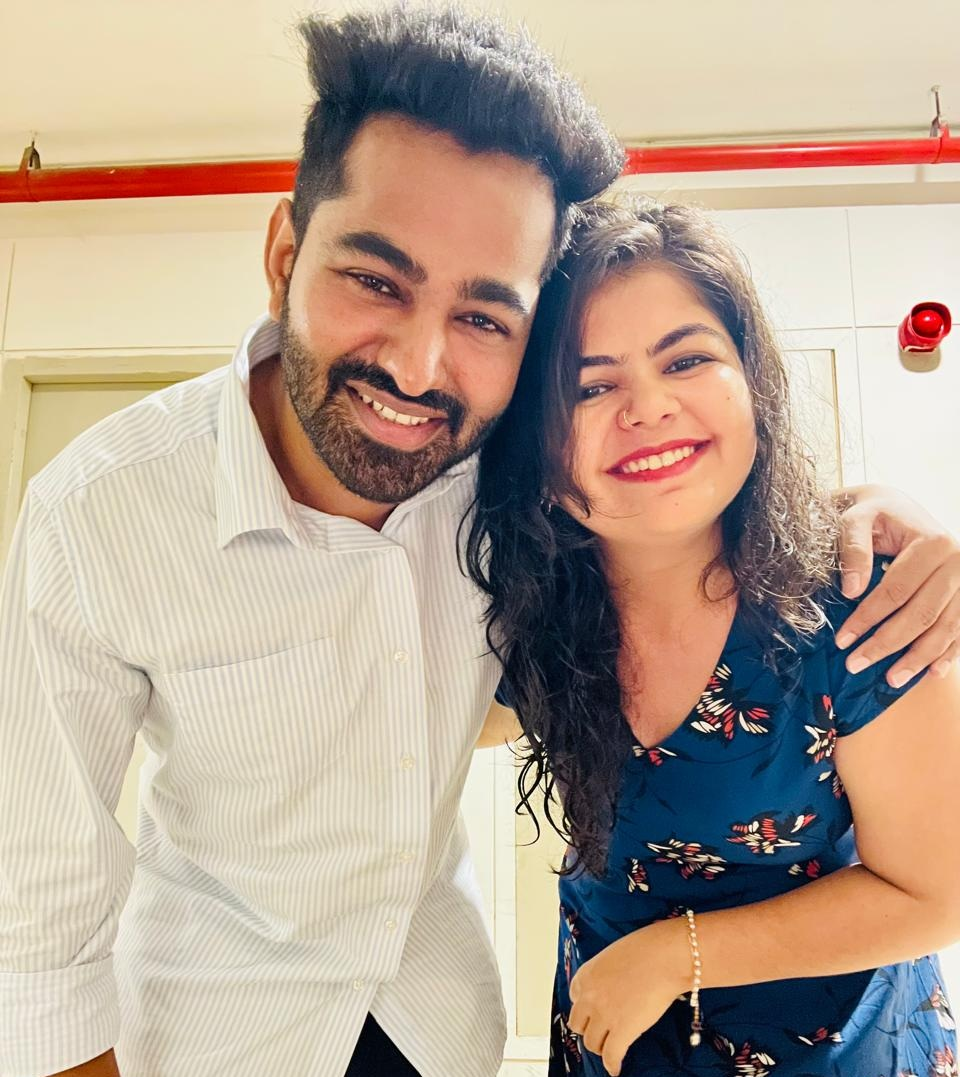
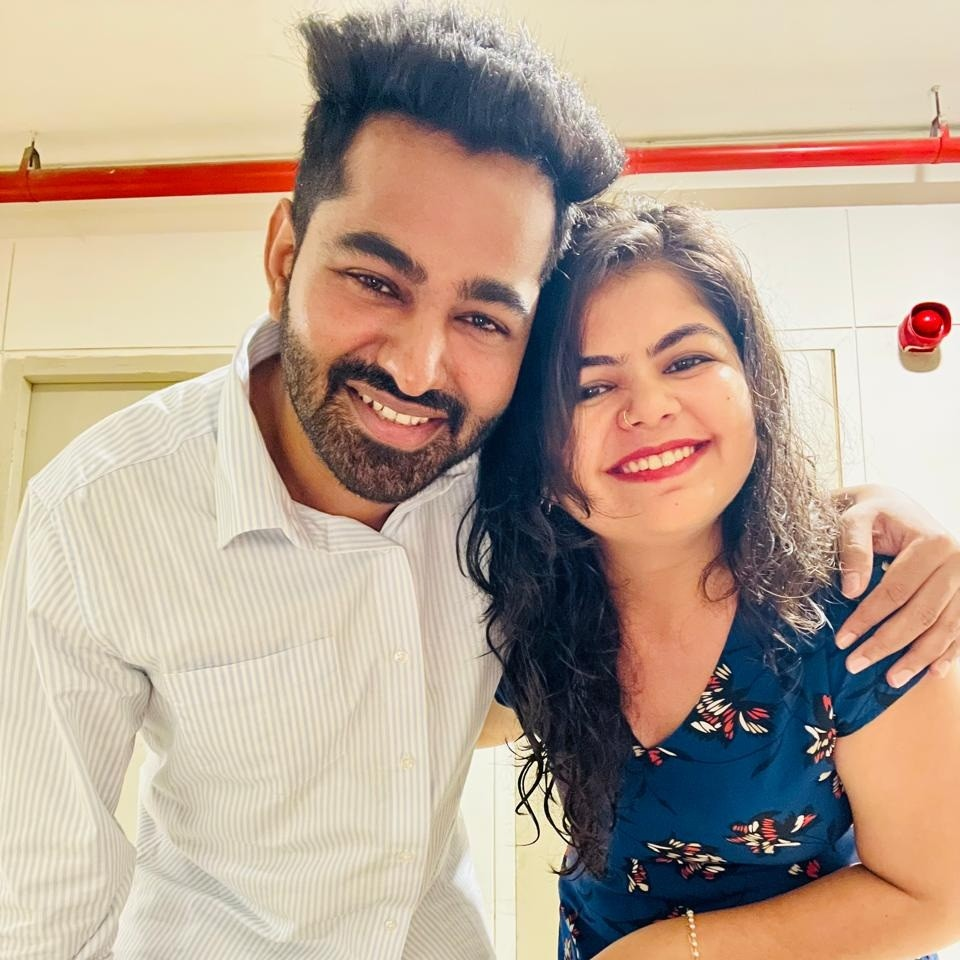
Additional fix

diff --git a/src/components/MusicPlayer.jsx b/src/components/MusicPlayer.jsx
@@ -8,45 +8,75 @@ export default function MusicPlayer() {
   const [hasError, setHasError] = useState(false);
   const audioRef = useRef(null);
 
-  //Music is disabled by default (per requirement)
-  // useEffect(() => {
-  //   const audio = audioRef.current;
-  //   if (!audio) return;
-  //   audio.volume = 0.6;
-  //   audio.loop = true;
-  // }, []);
   useEffect(() => {
-  const a = audioRef.current;
-  if (!a || !music.enabled) return;
-  a.volume = 0.6;
-  a.loop = true;
+    const audio = audioRef.current;
 
-  const tryPlay = async () => {
-    try {
-      await a.play();
-      setPlaying(true);
-      // Once played, remove the listener — job done
+    if (!audio || !music.enabled) return;
+
+    audio.volume = 0.6;
+    audio.loop = true;
+
+    const tryPlay = async () => {
+      // Don't try to play if user has already left/hidden the page
+      if (document.hidden) return;
+
+      try {
+        await audio.play();
+        setPlaying(true);
+
+        document.removeEventListener("touchstart", tryPlay);
+        document.removeEventListener("click", tryPlay);
+      } catch {
+        setPlaying(false);
+      }
+    };
+
+    // Try automatically after 3.5 seconds
+    const playTimer = setTimeout(tryPlay, 3500);
+
+    // Mobile fallback
+    document.addEventListener("touchstart", tryPlay);
+    document.addEventListener("click", tryPlay);
+
+    // 🔴 STOP MUSIC when user leaves/minimizes the page
+    const handleVisibilityChange = () => {
+      if (document.hidden) {
+        audio.pause();
+        setPlaying(false);
+      }
+    };
+
+    // 🔴 STOP MUSIC when page is being unloaded/navigated away
+    const handlePageHide = () => {
+      audio.pause();
+      audio.currentTime = 0;
+      setPlaying(false);
+    };
+
+    document.addEventListener("visibilitychange", handleVisibilityChange);
+    window.addEventListener("pagehide", handlePageHide);
+
+    return () => {
+      // Clear the 3.5 second timer
+      clearTimeout(playTimer);
+
       document.removeEventListener("touchstart", tryPlay);
       document.removeEventListener("click", tryPlay);
-    } catch {
-      setPlaying(false);
-    }
-  };
+      document.removeEventListener(
+        "visibilitychange",
+        handleVisibilityChange
+      );
+      window.removeEventListener("pagehide", handlePageHide);
 
-  // Try immediately (works on desktop)
-  setTimeout(tryPlay, 3500);
+      // 🔴 Always stop music when component is removed
+      audio.pause();
+      audio.currentTime = 0;
+    };
+  }, [music.enabled]);
 
-  // Fallback: play on first touch (works on mobile)
-  document.addEventListener("touchstart", tryPlay, { once: true });
-  document.addEventListener("click", tryPlay, { once: true });
-
-  return () => {
-    document.removeEventListener("touchstart", tryPlay);
-    document.removeEventListener("click", tryPlay);
-  };
-}, []);
   const toggle = async () => {
     const audio = audioRef.current;
+
     if (!audio || hasError) return;
 
     if (playing) {
@@ -73,29 +103,61 @@ export default function MusicPlayer() {
         onError={() => setHasError(true)}
         preload="none"
       />
+
       <button
-        className={`music-btn ${playing ? "music-btn-playing" : ""} ${hasError ? "music-btn-error" : ""}`}
+        className={`music-btn ${
+          playing ? "music-btn-playing" : ""
+        } ${hasError ? "music-btn-error" : ""}`}
         onClick={toggle}
         aria-label={playing ? "Pause music" : "Play wedding music"}
-        title={hasError ? "Music file not found" : playing ? "Pause music" : `Play: ${music.label}`}
+        title={
+          hasError
+            ? "Music file not found"
+            : playing
+            ? "Pause music"
+            : `Play: ${music.label}`
+        }
       >
         <span className="music-ripple" aria-hidden="true" />
+
         {hasError ? (
-          <svg width="20" height="20" viewBox="0 0 24 24" fill="none" stroke="currentColor" strokeWidth="2" aria-hidden="true">
-            <line x1="1" y1="1" x2="23" y2="23"/>
-            <path d="M9 9v3a3 3 0 0 0 5.12 2.12M15 9.34V4a3 3 0 0 0-5.94-.6"/>
-            <path d="M17 16.95A7 7 0 0 1 5 12v-2m14 0v2a7 7 0 0 1-.11 1.23"/>
+          <svg
+            width="20"
+            height="20"
+            viewBox="0 0 24 24"
+            fill="none"
+            stroke="currentColor"
+            strokeWidth="2"
+            aria-hidden="true"
+          >
+            <line x1="1" y1="1" x2="23" y2="23" />
+            <path d="M9 9v3a3 3 0 0 0 5.12 2.12M15 9.34V4a3 3 0 0 0-5.94-.6" />
+            <path d="M17 16.95A7 7 0 0 1 5 12v-2m14 0v2a7 7 0 0 1-.11 1.23" />
           </svg>
         ) : playing ? (
-          <svg width="20" height="20" viewBox="0 0 24 24" fill="currentColor" aria-hidden="true">
-            <rect x="6" y="4" width="4" height="16" rx="1"/>
-            <rect x="14" y="4" width="4" height="16" rx="1"/>
+          <svg
+            width="20"
+            height="20"
+            viewBox="0 0 24 24"
+            fill="currentColor"
+            aria-hidden="true"
+          >
+            <rect x="6" y="4" width="4" height="16" rx="1" />
+            <rect x="14" y="4" width="4" height="16" rx="1" />
           </svg>
         ) : (
-          <svg width="20" height="20" viewBox="0 0 24 24" fill="none" stroke="currentColor" strokeWidth="2" aria-hidden="true">
-            <path d="M9 18V5l12-2v13"/>
-            <circle cx="6" cy="18" r="3"/>
-            <circle cx="18" cy="16" r="3"/>
+          <svg
+            width="20"
+            height="20"
+            viewBox="0 0 24 24"
+            fill="none"
+            stroke="currentColor"
+            strokeWidth="2"
+            aria-hidden="true"
+          >
+            <path d="M9 18V5l12-2v13" />
+            <circle cx="6" cy="18" r="3" />
+            <circle cx="18" cy="16" r="3" />
           </svg>
         )}
       </button>

diff --git a/src/data/weddingData.js b/src/data/weddingData.js
@@ -76,7 +76,7 @@ export const weddingData = {
     },
     {
       id: "haldi",
-      name: "Rang-e-Mehfil",
+      name: "Rang-e-Mehfil (Carnival)",
       date: "04 September 2026",
       day: "Friday",
       time: "11:00 AM",
